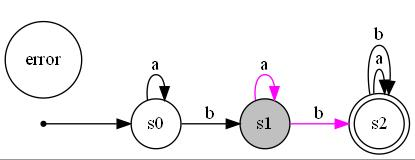
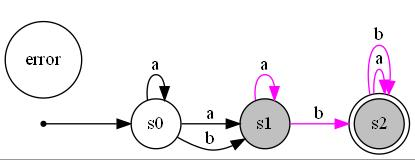
Colorir aresta de AFN (tem bug)

diff --git a/src/files/generateDot.py b/src/files/generateDot.py
@@ -1,5 +1,6 @@
 from bash.generateBash import run_script
 from copy import deepcopy
+from automata.generateDestination import *
 
 
 # Gera automato inicial
@@ -36,42 +37,41 @@ def estadosCorrentes(lstadosi: list, lstadosf: list, ltrans: list, simb: list):
 
     trans = []
     converte = []
+    converte2 = []
+    currentS0 = []
+    verifica = ["ok"]
     #verifica = ["ok"]
     #Copia profunda no python
     currentS = deepcopy(lstadosi)
     simb.append('ok')
 
     for l in simb:
-        #print(l)
         tam += 1
         trans.clear()
 
         #pega os destinos do estado corrente
-        for i in ltrans:
-            if currentS[0] == i.origem:
-                trans.append(i.destino)
-        print(trans)
+        for m in currentS:  # estado corrente
+            for i in ltrans:  # transicoes
+                if m == i.origem:
+                    trans.append(i)
 
-        converte.clear()
-        #pega o alfabeto
-        for j in ltrans:
-            if j.trans not in converte:
-                converte.append(j.trans)
+        currentS.clear()
+        for k in trans:
+            if l == k.trans:
+                currentS.append(k.destino)
 
-        #pega estado corrente
-        for k in converte:
-            if (l == k):
-                currentS[0] = trans[converte.index(k)]
+        currentS0 = list(set(currentS))
+        print(currentS0)
 
-        if (tam == len(simb)):
-            gerarDotTransicoes2(lstadosi, lstadosf, ltrans, currentS, tam, l)
+        if (tam == 1):
+            gerarDotTransicoes2(lstadosi, lstadosf, ltrans, currentS0, tam,
+                                verifica)
 
         # elif (tam != 1):
         #     print(l)
         #     gerarDotTransicoes2(lstadosi, lstadosf, ltrans, currentS, tam, l)
 
-        else:
-            gerarDotTransicoes2(lstadosi, lstadosf, ltrans, currentS, tam, l)
+        gerarDotTransicoes2(lstadosi, lstadosf, ltrans, currentS0, tam, l)
 
 
 def gerarDotTransicoes(lstadosi: list, lstadosf: list, ltrans: list,
@@ -113,8 +113,9 @@ def gerarDotTransicoes(lstadosi: list, lstadosf: list, ltrans: list,
 
 def gerarDotTransicoes2(lstadosi: list, lstadosf: list, ltrans: list,
                         estado: list, tam: int, simb: list):
-    currentState = estado
+    currentState = deepcopy(estado)
     tam = str(tam)
+    tamT = 0
 
     arquivo = open('dotfiles/arq_' + tam + '.dot', 'w')
     arquivo.write("digraph maquina_de_estados { \n\t")
@@ -138,16 +139,36 @@ def gerarDotTransicoes2(lstadosi: list, lstadosf: list, ltrans: list,
 
 #adicionar condicao de transicao
     for k in ltrans:
-        # if (currentState[0] == k.origem and k.trans == simb[0]):
-        #     arquivo.write(k.origem + " -> " + k.destino + "[label = " + "\"" +
-        #                   k.trans + "\"" + "]" + "[color=lime];" + "\n\t")
+        tamT = 0
+        for t in currentState:
 
-        if (currentState[0] == k.origem):
-            arquivo.write(k.origem + " -> " + k.destino + "[label = " + "\"" +
-                          k.trans + "\"" + "]" + "[color=magenta];" + "\n\t")
-        else:
-            arquivo.write(k.origem + " -> " + k.destino + "[label = " + "\"" +
-                          k.trans + "\"" + "]" + "[color=black];" + "\n\t")
+            tamT += 1
+
+            # if (t == k.origem and simb == k.trans):
+            #     arquivo.write(k.origem + " -> " + k.destino + "[label = " +
+            #                   "\"" + k.trans + "\"" + "]" + "[color=lime];" +
+            #                   "\n\t")
+
+            if (t == k.origem):
+                arquivo.write(k.origem + " -> " + k.destino + "[label = " +
+                              "\"" + k.trans + "\"" + "]" +
+                              "[color=magenta];" + "\n\t")
+                if (tamT == currentState.index(currentState[-1])):
+                    break
+
+            else:
+                if (tamT == currentState.index(currentState[-1])):
+                    arquivo.write("")
+                else:
+                    arquivo.write(k.origem + " -> " + k.destino + "[label = " +
+                                  "\"" + k.trans + "\"" + "]" +
+                                  "[color=black];" + "\n\t")
+
+            # else:
+            #     if (tamT == currentState.index(currentState[-1])):
+            #         arquivo.write(k.origem + " -> " + k.destino + "[label = " +
+            #                       "\"" + k.trans + "\"" + "]" +
+            #                       "[color=black];" + "\n\t")
 
     arquivo.write("}")
     arquivo.close()

diff --git a/src/automata/generateDestination.py b/src/automata/generateDestination.py
@@ -1,0 +1,5 @@
+class addDestination:
+    def __init__(self, estado, trans, destino):
+        self.estado = estado
+        self.trans = trans
+        self.destino = destino
